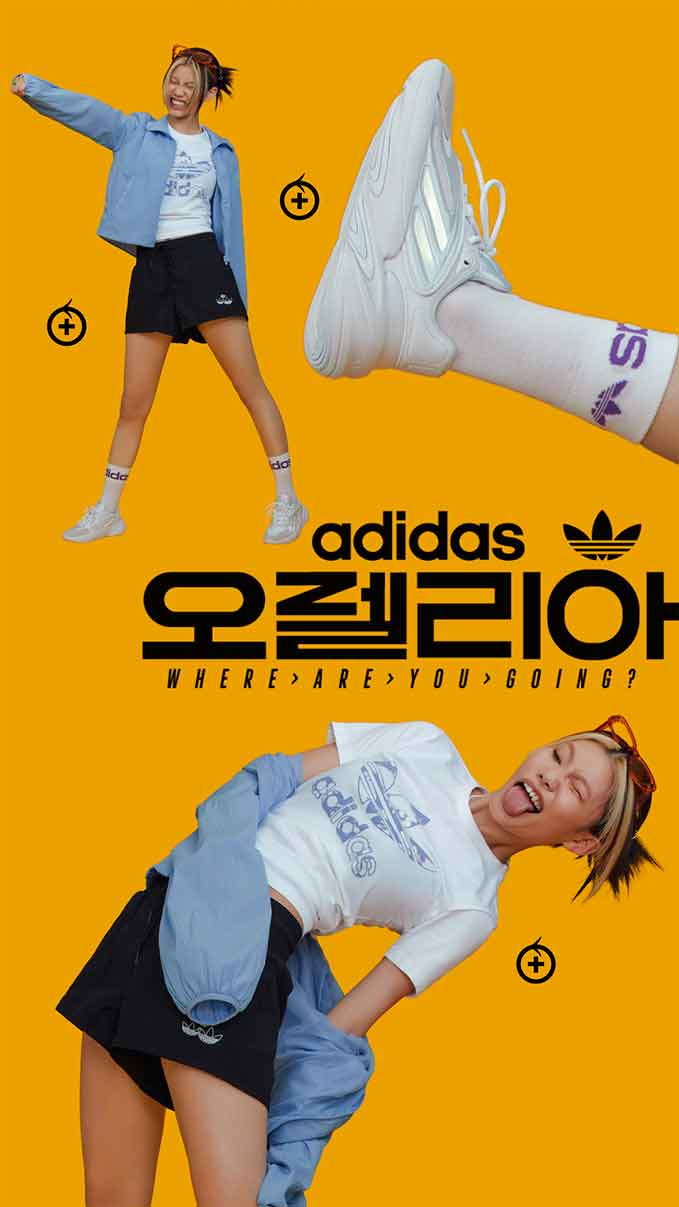
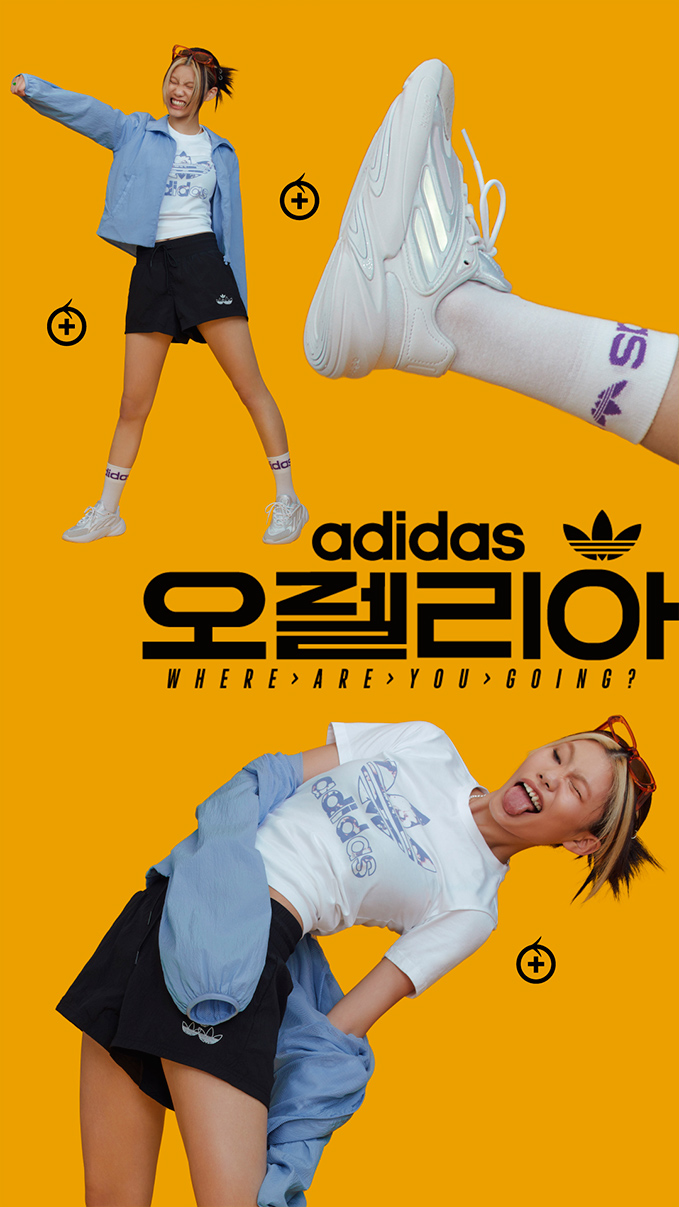
오즈월드 수정

diff --git a/front/html/adidas/2021/event/ozworld/build/index.html b/front/html/adidas/2021/event/ozworld/build/index.html
@@ -31,7 +31,7 @@
 		<header include-html="/html/adidas/inc/header.html"></header>
 		<!-- header HTML -->
 		<div id="container_r" class="campaign-content">
-<style type="text/css">.pseudo-element{content:'';display:block}html,body{height:100%}#wrap{min-width:1190px;overflow:hidden}a{outline:none}button{outline:none}.clearfix{clear:both;display:block;content:""}.inner{max-width:1210px;margin:0 auto;position:relative;box-sizing:border-box}.inner2{max-width:1586px;margin:0 auto;position:relative;box-sizing:border-box}.inner3{max-width:1370px;margin:0 auto;position:relative;box-sizing:border-box}.button_area_v2{display:inline-block}.button_area_v2:hover div a{color:#767677}.button_area_v2:hover div a span{background:#767677}.button_area_v2:hover div a span em{background:#767677}.button_area_v2 div.white .bg{box-shadow:inset 0 0 0 1px #fff;-webkit-box-shadow:inset 0 0 0 1px #fff;transition:all 0.5s;-webkit-transition:all 0.5s;-moz-transition:all 0.5s;-o-transition:all 0.5s;-ms-transition:all 0.5s}.button_area_v2 div.white a{background:#fff}.button_area_v2 div .bg{box-shadow:inset 0 0 0 1px #000;-webkit-box-shadow:inset 0 0 0 1px #000;transition:all 0.5s;-webkit-transition:all 0.5s;-moz-transition:all 0.5s;-o-transition:all 0.5s;-ms-transition:all 0.5s}.button_area_v2 div a{letter-spacing:1px;padding:0 20px;background:#000}#ozworld{min-width:1280px}#ozworld .oz_gif>img{width:100%}#ozworld .main{position:relative}#ozworld .main .main_wrap>img{width:100%}#ozworld .main .main_txt{position:absolute;left:50%;top:30%;transform:translate(-50%, -50%)}#ozworld .main .main_txt p{font:600 42px/70px "NotoSansKR";letter-spacing:8px;color:#fff;text-align:center;padding:60px 0 0 0}#ozworld .main .main_txt .main_btn{text-align:center}#ozworld .all_cont{position:relative}#ozworld .all_cont>img{width:100%}#ozworld .cont1 .cont1_box{position:relative;background:#40335f;padding:115px 0 121px 0}#ozworld .cont1 .cont1_box .cont1_video_list{overflow:hidden}#ozworld .cont1 .cont1_box .cont1_video_list .video_le{position:relative;float:left;width:48.61286254729%;margin-right:1.5762925599%}#ozworld .cont1 .cont1_box .cont1_video_list .video_ra{position:relative;float:left;padding-top:108px;width:47.73013871375%;margin-left:2.08070617907%}#ozworld .cont1 .cont1_box .video_wrap{position:relative}#ozworld .cont1 .cont1_box .video_wrap>img{width:100%}#ozworld .cont1 .cont1_box .video_wrap .video_btn{position:absolute;left:50%;top:50%;transform:translate(-50%, -50%)}#ozworld .cont1 .cont1_box .video_wrap .video_btn button{background:url("/images/adidas/2021/event/ozworld/video_btn.png") no-repeat;background-size:100%;width:227px;height:227px;border:0}#ozworld .cont1 .cont1_box .cont1_btn{text-align:center;padding-top:40px}#ozworld .cont2_tab{position:relative}#ozworld .tab_btn{position:relative}#ozworld .tab_btn>img{width:100%}#ozworld .tab_btn ul{text-align:center}#ozworld .tab_btn ul li{vertical-align:top;text-align:center;position:absolute;left:18.5%;top:36%;background:none;cursor:pointer;padding:185px;box-sizing:border-box;z-index:1}#ozworld .tab_btn ul li a{display:block}#ozworld .tab_btn ul .tab2{left:40.5%;top:36%}#ozworld .tab_btn ul .tab3{left:62.5%;top:36%}#ozworld .tab_con{position:relative}#ozworld .tab_con .tab__content{width:100%;z-index:0;display:none}#ozworld .tab_con .tab__content.current{display:block;animation:fade-in 1s;animation-fill-mode:forwards;transition:0.5s;-webkit-transition:0.5s;-moz-transition:0.5s;-o-transition:0.5s;-ms-transition:0.5s}#ozworld .tab_con .tab__content .scroll.on{opacity:1}#ozworld .tab_con .tab__content .slick-slide>img{width:76%;margin:0 auto}#ozworld .tab_con .tab__content .slick-arrow{font-size:0;border:0}#ozworld .tab_con .tab__content .slick-prev{position:absolute;left:5%;top:43%;background:url("/images/adidas/2021/event/ozworld/prev.png") no-repeat 50%;background-size:auto;width:55px;height:105px;z-index:1;outline:none;cursor:pointer}#ozworld .tab_con .tab__content .slick-next{position:absolute;right:5%;top:43%;background:url("/images/adidas/2021/event/ozworld/next.png") no-repeat 50%;background-size:auto;width:55px;height:105px;z-index:1;outline:none;cursor:pointer}#ozworld .tab_con .tab1_top .tab1_bg{background:#6ad60f;text-align:center;padding:166px 0 142px 0}#ozworld .tab_con .tab1_top .tab1_bg .ozwg_btn{text-align:center;padding:20px 0 0 0}#ozworld .tab_con .ozwg_bg{background:url("/images/adidas/2021/event/ozworld/ozwg_bg.jpg") no-repeat;background-position:center}#ozworld .tab_con .ozwg_bg .title{text-align:center;padding:215px 0 85px 0}#ozworld .tab_con .ozwg_bg .slider01{padding-bottom:60px;text-align:center}#ozworld .tab_con .ozwg_bg .slider02{padding-bottom:100px;text-align:center}#ozworld .tab_con .ozwg_bg2{background:url("/images/adidas/2021/event/ozworld/ozwg_bg2.jpg") no-repeat;background-position:center}#ozworld .tab_con .ozwg_bg3{background:url("/images/adidas/2021/event/ozworld/ozwg_bg3.jpg") no-repeat;background-position:center}#ozworld .tab_con .ozwg_bg4{background:url("/images/adidas/2021/event/ozworld/ozwg_bg4.jpg") no-repeat;background-position:center}#ozworld .cont3_box{background:url("/images/adidas/2021/event/ozworld/cont3_bg.jpg") no-repeat;background-position:center;padding:130px 0 140px 0}#ozworld .cont3_box .cont3_video_list{overflow:hidden}#ozworld .cont3_box .cont3_video_list .video_le{position:relative;float:left;width:49.56204379562%;margin-right:0.87591240876%}#ozworld .cont3_box .cont3_video_list .video_ra{position:relative;float:left;width:49.56204379562%}#ozworld .cont3_box .video_wrap{position:relative}#ozworld .cont3_box .video_wrap>img{width:100%}#ozworld .cont3_box .video_wrap .video_btn{position:absolute;left:50%;top:50%;transform:translate(-50%, -50%)}#ozworld .cont3_box .video_wrap .video_btn button{background:url("/images/adidas/2021/event/ozworld/video_btn.png") no-repeat;background-size:100%;width:227px;height:227px;border:0}
+<style type="text/css">.pseudo-element{content:'';display:block}html,body{height:100%}#wrap{min-width:1190px;overflow:hidden}a{outline:none}button{outline:none}.clearfix{clear:both;display:block;content:""}.inner{max-width:1210px;margin:0 auto;position:relative;box-sizing:border-box}.inner2{max-width:1586px;margin:0 auto;position:relative;box-sizing:border-box}.inner3{max-width:1370px;margin:0 auto;position:relative;box-sizing:border-box}.button_area_v2{display:inline-block}.button_area_v2:hover div a{color:#767677}.button_area_v2:hover div a span{background:#767677}.button_area_v2:hover div a span em{background:#767677}.button_area_v2 div.white .bg{box-shadow:inset 0 0 0 1px #fff;-webkit-box-shadow:inset 0 0 0 1px #fff;transition:all 0.5s;-webkit-transition:all 0.5s;-moz-transition:all 0.5s;-o-transition:all 0.5s;-ms-transition:all 0.5s}.button_area_v2 div.white a{background:#fff}.button_area_v2 div .bg{box-shadow:inset 0 0 0 1px #000;-webkit-box-shadow:inset 0 0 0 1px #000;transition:all 0.5s;-webkit-transition:all 0.5s;-moz-transition:all 0.5s;-o-transition:all 0.5s;-ms-transition:all 0.5s}.button_area_v2 div a{letter-spacing:1px;padding:0 20px;background:#000}#ozworld{min-width:1280px}#ozworld .oz_gif>img{width:100%}#ozworld .main{position:relative}#ozworld .main .main_wrap>img{width:100%}#ozworld .main .main_txt{position:absolute;left:50%;top:31%;transform:translate(-50%, -50%)}#ozworld .main .main_txt p{font:600 42px/70px "NotoSansKR";letter-spacing:8px;color:#fff;text-align:center;padding:60px 0 30px 0}#ozworld .main .main_txt .main_btn{text-align:center}#ozworld .all_cont{position:relative}#ozworld .all_cont>img{width:100%}#ozworld .cont1 .cont1_box{position:relative;background:#40335f;padding:115px 0 121px 0}#ozworld .cont1 .cont1_box .cont1_video_list{overflow:hidden}#ozworld .cont1 .cont1_box .cont1_video_list .video_le{position:relative;float:left;width:48.61286254729%;margin-right:1.5762925599%}#ozworld .cont1 .cont1_box .cont1_video_list .video_ra{position:relative;float:left;padding-top:108px;width:47.73013871375%;margin-left:2.08070617907%}#ozworld .cont1 .cont1_box .video_wrap{position:relative}#ozworld .cont1 .cont1_box .video_wrap>img{width:100%}#ozworld .cont1 .cont1_box .video_wrap .video_btn{position:absolute;left:50%;top:50%;transform:translate(-50%, -50%)}#ozworld .cont1 .cont1_box .video_wrap .video_btn button{background:url("/images/adidas/2021/event/ozworld/video_btn.png") no-repeat;background-size:100%;width:227px;height:227px;border:0}#ozworld .cont1 .cont1_box .cont1_btn{text-align:center;padding-top:40px}#ozworld .cont2_tab{position:relative}#ozworld .tab_btn{position:relative}#ozworld .tab_btn>img{width:100%}#ozworld .tab_btn ul{text-align:center}#ozworld .tab_btn ul li{vertical-align:top;text-align:center;position:absolute;left:18.5%;top:36%;background:none;cursor:pointer;padding:185px;box-sizing:border-box;z-index:1}#ozworld .tab_btn ul li a{display:block}#ozworld .tab_btn ul .tab2{left:40.5%;top:36%}#ozworld .tab_btn ul .tab3{left:62.5%;top:36%}#ozworld .tab_con{position:relative}#ozworld .tab_con .tab__content{width:100%;z-index:0;display:none}#ozworld .tab_con .tab__content.current{display:block;animation:fade-in 1s;animation-fill-mode:forwards;transition:0.5s;-webkit-transition:0.5s;-moz-transition:0.5s;-o-transition:0.5s;-ms-transition:0.5s}#ozworld .tab_con .tab__content .scroll.on{opacity:1}#ozworld .tab_con .tab__content .slick-slide>img{width:76%;margin:0 auto}#ozworld .tab_con .tab__content .slick-arrow{font-size:0;border:0}#ozworld .tab_con .tab__content .slick-prev{position:absolute;left:5%;top:43%;background:url("/images/adidas/2021/event/ozworld/prev.png") no-repeat 50%;background-size:auto;width:55px;height:105px;z-index:1;outline:none;cursor:pointer}#ozworld .tab_con .tab__content .slick-next{position:absolute;right:5%;top:43%;background:url("/images/adidas/2021/event/ozworld/next.png") no-repeat 50%;background-size:auto;width:55px;height:105px;z-index:1;outline:none;cursor:pointer}#ozworld .tab_con .tab1_top .tab1_bg{background:#6ad60f;text-align:center;padding:166px 0 142px 0}#ozworld .tab_con .tab1_top .tab1_bg .ozwg_btn{text-align:center;padding:20px 0 0 0}#ozworld .tab_con .ozwg_bg{background:url("/images/adidas/2021/event/ozworld/ozwg_bg.jpg") no-repeat;background-position:center}#ozworld .tab_con .ozwg_bg .title{text-align:center;padding:215px 0 85px 0}#ozworld .tab_con .ozwg_bg .slider01{padding-bottom:60px;text-align:center}#ozworld .tab_con .ozwg_bg .slider02{padding-bottom:100px;text-align:center}#ozworld .tab_con .ozwg_bg2{background:url("/images/adidas/2021/event/ozworld/ozwg_bg2.jpg") no-repeat;background-position:center}#ozworld .tab_con .ozwg_bg3{background:url("/images/adidas/2021/event/ozworld/ozwg_bg3.jpg") no-repeat;background-position:center}#ozworld .tab_con .ozwg_bg4{background:url("/images/adidas/2021/event/ozworld/ozwg_bg4.jpg") no-repeat;background-position:center}#ozworld .cont3_box{background:url("/images/adidas/2021/event/ozworld/cont3_bg.jpg") no-repeat;background-position:center;padding:130px 0 140px 0}#ozworld .cont3_box .cont3_video_list{overflow:hidden}#ozworld .cont3_box .cont3_video_list .video_le{position:relative;float:left;width:49.56204379562%;margin-right:0.87591240876%}#ozworld .cont3_box .cont3_video_list .video_ra{position:relative;float:left;width:49.56204379562%}#ozworld .cont3_box .video_wrap{position:relative}#ozworld .cont3_box .video_wrap>img{width:100%}#ozworld .cont3_box .video_wrap .video_btn{position:absolute;left:50%;top:50%;transform:translate(-50%, -50%)}#ozworld .cont3_box .video_wrap .video_btn button{background:url("/images/adidas/2021/event/ozworld/video_btn.png") no-repeat;background-size:100%;width:227px;height:227px;border:0}
 </style>
 			<link rel="stylesheet" type="text/css" href="/css/slick.css" />		
 			<div id="ozworld">
@@ -104,9 +104,7 @@
 									</a>									
 								</li>
 								<li id="tab3" class="tab-link tab3" data-tab="tab-3" onclick="alert('COMING SOON!'); return false;">
-									<a href="javascript:void(0)">
 
-									</a>
 								</li>
 							</ul>
 						</div>
@@ -306,10 +304,8 @@
 									<a href="javascript:void(0)" class="tab2">
 									</a>									
 								</li>
-								<li id="tab3" class="tab-link tab3 " data-tab="tab-3" onclick="alert('COMING SOON!'); return false;">
-									<a href="javascript:void(0)">
+								<li id="tab3" class="tab-link tab3 " data-tab="tab-3" onclick="alert('COMING SOON!');">
 
-									</a>
 								</li>
 							</ul>
 						</div>
@@ -377,11 +373,15 @@
 				});
 
 				$('.tab_btn li:nth-child(3)').click(function(){
-					var index = $(this).index();
 					$("#tab_ch").attr("src", "/images/adidas/2021/event/ozworld/cont2_tab3.jpg");
 					$("#tab_ch2").attr("src", "/images/adidas/2021/event/ozworld/cont2_tab6.jpg");
 					$(".cont3_box").fadeOut(100);
 				});
+
+				$(".tab_btn li:nth-child(3)").unbind("click");			
+
+
+
 
 				// $('#tab_ch').on({
 				// 	'click': function() {

diff --git a/front/html/adidas/html/pn/ozworld.html b/front/html/adidas/html/pn/ozworld.html
@@ -1,5 +1,5 @@
 <div id="container_r" class="campaign-content">
-	<style type="text/css">.pseudo-element{content:'';display:block}html,body{height:100%}#wrap{min-width:1190px;overflow:hidden}a{outline:none}button{outline:none}.clearfix{clear:both;display:block;content:""}.inner{max-width:1210px;margin:0 auto;position:relative;box-sizing:border-box}.inner2{max-width:1586px;margin:0 auto;position:relative;box-sizing:border-box}.inner3{max-width:1370px;margin:0 auto;position:relative;box-sizing:border-box}.button_area_v2{display:inline-block}.button_area_v2:hover div a{color:#767677}.button_area_v2:hover div a span{background:#767677}.button_area_v2:hover div a span em{background:#767677}.button_area_v2 div.white .bg{box-shadow:inset 0 0 0 1px #fff;-webkit-box-shadow:inset 0 0 0 1px #fff;transition:all 0.5s;-webkit-transition:all 0.5s;-moz-transition:all 0.5s;-o-transition:all 0.5s;-ms-transition:all 0.5s}.button_area_v2 div.white a{background:#fff}.button_area_v2 div .bg{box-shadow:inset 0 0 0 1px #000;-webkit-box-shadow:inset 0 0 0 1px #000;transition:all 0.5s;-webkit-transition:all 0.5s;-moz-transition:all 0.5s;-o-transition:all 0.5s;-ms-transition:all 0.5s}.button_area_v2 div a{letter-spacing:1px;padding:0 20px;background:#000}#ozworld{min-width:1280px}#ozworld .oz_gif>img{width:100%}#ozworld .main{position:relative}#ozworld .main .main_wrap>img{width:100%}#ozworld .main .main_txt{position:absolute;left:50%;top:30%;transform:translate(-50%, -50%)}#ozworld .main .main_txt p{font:600 42px/70px "NotoSansKR";letter-spacing:8px;color:#fff;text-align:center;padding:60px 0 0 0}#ozworld .main .main_txt .main_btn{text-align:center}#ozworld .all_cont{position:relative}#ozworld .all_cont>img{width:100%}#ozworld .cont1 .cont1_box{position:relative;background:#40335f;padding:115px 0 121px 0}#ozworld .cont1 .cont1_box .cont1_video_list{overflow:hidden}#ozworld .cont1 .cont1_box .cont1_video_list .video_le{position:relative;float:left;width:48.61286254729%;margin-right:1.5762925599%}#ozworld .cont1 .cont1_box .cont1_video_list .video_ra{position:relative;float:left;padding-top:108px;width:47.73013871375%;margin-left:2.08070617907%}#ozworld .cont1 .cont1_box .video_wrap{position:relative}#ozworld .cont1 .cont1_box .video_wrap>img{width:100%}#ozworld .cont1 .cont1_box .video_wrap .video_btn{position:absolute;left:50%;top:50%;transform:translate(-50%, -50%)}#ozworld .cont1 .cont1_box .video_wrap .video_btn button{background:url("/images/adidas/2021/event/ozworld/video_btn.png") no-repeat;background-size:100%;width:227px;height:227px;border:0}#ozworld .cont1 .cont1_box .cont1_btn{text-align:center;padding-top:40px}#ozworld .cont2_tab{position:relative}#ozworld .tab_btn{position:relative}#ozworld .tab_btn>img{width:100%}#ozworld .tab_btn ul{text-align:center}#ozworld .tab_btn ul li{vertical-align:top;text-align:center;position:absolute;left:18.5%;top:36%;background:none;cursor:pointer;padding:185px;box-sizing:border-box;z-index:1}#ozworld .tab_btn ul li a{display:block}#ozworld .tab_btn ul .tab2{left:40.5%;top:36%}#ozworld .tab_btn ul .tab3{left:62.5%;top:36%}#ozworld .tab_con{position:relative}#ozworld .tab_con .tab__content{width:100%;z-index:0;display:none}#ozworld .tab_con .tab__content.current{display:block;animation:fade-in 1s;animation-fill-mode:forwards;transition:0.5s;-webkit-transition:0.5s;-moz-transition:0.5s;-o-transition:0.5s;-ms-transition:0.5s}#ozworld .tab_con .tab__content .scroll.on{opacity:1}#ozworld .tab_con .tab__content .slick-slide>img{width:76%;margin:0 auto}#ozworld .tab_con .tab__content .slick-arrow{font-size:0;border:0}#ozworld .tab_con .tab__content .slick-prev{position:absolute;left:5%;top:43%;background:url("/images/adidas/2021/event/ozworld/prev.png") no-repeat 50%;background-size:auto;width:55px;height:105px;z-index:1;outline:none;cursor:pointer}#ozworld .tab_con .tab__content .slick-next{position:absolute;right:5%;top:43%;background:url("/images/adidas/2021/event/ozworld/next.png") no-repeat 50%;background-size:auto;width:55px;height:105px;z-index:1;outline:none;cursor:pointer}#ozworld .tab_con .tab1_top .tab1_bg{background:#6ad60f;text-align:center;padding:166px 0 142px 0}#ozworld .tab_con .tab1_top .tab1_bg .ozwg_btn{text-align:center;padding:20px 0 0 0}#ozworld .tab_con .ozwg_bg{background:url("/images/adidas/2021/event/ozworld/ozwg_bg.jpg") no-repeat;background-position:center}#ozworld .tab_con .ozwg_bg .title{text-align:center;padding:215px 0 85px 0}#ozworld .tab_con .ozwg_bg .slider01{padding-bottom:60px;text-align:center}#ozworld .tab_con .ozwg_bg .slider02{padding-bottom:100px;text-align:center}#ozworld .tab_con .ozwg_bg2{background:url("/images/adidas/2021/event/ozworld/ozwg_bg2.jpg") no-repeat;background-position:center}#ozworld .tab_con .ozwg_bg3{background:url("/images/adidas/2021/event/ozworld/ozwg_bg3.jpg") no-repeat;background-position:center}#ozworld .tab_con .ozwg_bg4{background:url("/images/adidas/2021/event/ozworld/ozwg_bg4.jpg") no-repeat;background-position:center}#ozworld .cont3_box{background:url("/images/adidas/2021/event/ozworld/cont3_bg.jpg") no-repeat;background-position:center;padding:130px 0 140px 0}#ozworld .cont3_box .cont3_video_list{overflow:hidden}#ozworld .cont3_box .cont3_video_list .video_le{position:relative;float:left;width:49.56204379562%;margin-right:0.87591240876%}#ozworld .cont3_box .cont3_video_list .video_ra{position:relative;float:left;width:49.56204379562%}#ozworld .cont3_box .video_wrap{position:relative}#ozworld .cont3_box .video_wrap>img{width:100%}#ozworld .cont3_box .video_wrap .video_btn{position:absolute;left:50%;top:50%;transform:translate(-50%, -50%)}#ozworld .cont3_box .video_wrap .video_btn button{background:url("/images/adidas/2021/event/ozworld/video_btn.png") no-repeat;background-size:100%;width:227px;height:227px;border:0}
+	<style type="text/css">.pseudo-element{content:'';display:block}html,body{height:100%}#wrap{min-width:1190px;overflow:hidden}a{outline:none}button{outline:none}.clearfix{clear:both;display:block;content:""}.inner{max-width:1210px;margin:0 auto;position:relative;box-sizing:border-box}.inner2{max-width:1586px;margin:0 auto;position:relative;box-sizing:border-box}.inner3{max-width:1370px;margin:0 auto;position:relative;box-sizing:border-box}.button_area_v2{display:inline-block}.button_area_v2:hover div a{color:#767677}.button_area_v2:hover div a span{background:#767677}.button_area_v2:hover div a span em{background:#767677}.button_area_v2 div.white .bg{box-shadow:inset 0 0 0 1px #fff;-webkit-box-shadow:inset 0 0 0 1px #fff;transition:all 0.5s;-webkit-transition:all 0.5s;-moz-transition:all 0.5s;-o-transition:all 0.5s;-ms-transition:all 0.5s}.button_area_v2 div.white a{background:#fff}.button_area_v2 div .bg{box-shadow:inset 0 0 0 1px #000;-webkit-box-shadow:inset 0 0 0 1px #000;transition:all 0.5s;-webkit-transition:all 0.5s;-moz-transition:all 0.5s;-o-transition:all 0.5s;-ms-transition:all 0.5s}.button_area_v2 div a{letter-spacing:1px;padding:0 20px;background:#000}#ozworld{min-width:1280px}#ozworld .oz_gif>img{width:100%}#ozworld .main{position:relative}#ozworld .main .main_wrap>img{width:100%}#ozworld .main .main_txt{position:absolute;left:50%;top:31%;transform:translate(-50%, -50%)}#ozworld .main .main_txt p{font:600 42px/70px "NotoSansKR";letter-spacing:8px;color:#fff;text-align:center;padding:60px 0 30px 0}#ozworld .main .main_txt .main_btn{text-align:center}#ozworld .all_cont{position:relative}#ozworld .all_cont>img{width:100%}#ozworld .cont1 .cont1_box{position:relative;background:#40335f;padding:115px 0 121px 0}#ozworld .cont1 .cont1_box .cont1_video_list{overflow:hidden}#ozworld .cont1 .cont1_box .cont1_video_list .video_le{position:relative;float:left;width:48.61286254729%;margin-right:1.5762925599%}#ozworld .cont1 .cont1_box .cont1_video_list .video_ra{position:relative;float:left;padding-top:108px;width:47.73013871375%;margin-left:2.08070617907%}#ozworld .cont1 .cont1_box .video_wrap{position:relative}#ozworld .cont1 .cont1_box .video_wrap>img{width:100%}#ozworld .cont1 .cont1_box .video_wrap .video_btn{position:absolute;left:50%;top:50%;transform:translate(-50%, -50%)}#ozworld .cont1 .cont1_box .video_wrap .video_btn button{background:url("/images/adidas/2021/event/ozworld/video_btn.png") no-repeat;background-size:100%;width:227px;height:227px;border:0}#ozworld .cont1 .cont1_box .cont1_btn{text-align:center;padding-top:40px}#ozworld .cont2_tab{position:relative}#ozworld .tab_btn{position:relative}#ozworld .tab_btn>img{width:100%}#ozworld .tab_btn ul{text-align:center}#ozworld .tab_btn ul li{vertical-align:top;text-align:center;position:absolute;left:18.5%;top:36%;background:none;cursor:pointer;padding:185px;box-sizing:border-box;z-index:1}#ozworld .tab_btn ul li a{display:block}#ozworld .tab_btn ul .tab2{left:40.5%;top:36%}#ozworld .tab_btn ul .tab3{left:62.5%;top:36%}#ozworld .tab_con{position:relative}#ozworld .tab_con .tab__content{width:100%;z-index:0;display:none}#ozworld .tab_con .tab__content.current{display:block;animation:fade-in 1s;animation-fill-mode:forwards;transition:0.5s;-webkit-transition:0.5s;-moz-transition:0.5s;-o-transition:0.5s;-ms-transition:0.5s}#ozworld .tab_con .tab__content .scroll.on{opacity:1}#ozworld .tab_con .tab__content .slick-slide>img{width:76%;margin:0 auto}#ozworld .tab_con .tab__content .slick-arrow{font-size:0;border:0}#ozworld .tab_con .tab__content .slick-prev{position:absolute;left:5%;top:43%;background:url("/images/adidas/2021/event/ozworld/prev.png") no-repeat 50%;background-size:auto;width:55px;height:105px;z-index:1;outline:none;cursor:pointer}#ozworld .tab_con .tab__content .slick-next{position:absolute;right:5%;top:43%;background:url("/images/adidas/2021/event/ozworld/next.png") no-repeat 50%;background-size:auto;width:55px;height:105px;z-index:1;outline:none;cursor:pointer}#ozworld .tab_con .tab1_top .tab1_bg{background:#6ad60f;text-align:center;padding:166px 0 142px 0}#ozworld .tab_con .tab1_top .tab1_bg .ozwg_btn{text-align:center;padding:20px 0 0 0}#ozworld .tab_con .ozwg_bg{background:url("/images/adidas/2021/event/ozworld/ozwg_bg.jpg") no-repeat;background-position:center}#ozworld .tab_con .ozwg_bg .title{text-align:center;padding:215px 0 85px 0}#ozworld .tab_con .ozwg_bg .slider01{padding-bottom:60px;text-align:center}#ozworld .tab_con .ozwg_bg .slider02{padding-bottom:100px;text-align:center}#ozworld .tab_con .ozwg_bg2{background:url("/images/adidas/2021/event/ozworld/ozwg_bg2.jpg") no-repeat;background-position:center}#ozworld .tab_con .ozwg_bg3{background:url("/images/adidas/2021/event/ozworld/ozwg_bg3.jpg") no-repeat;background-position:center}#ozworld .tab_con .ozwg_bg4{background:url("/images/adidas/2021/event/ozworld/ozwg_bg4.jpg") no-repeat;background-position:center}#ozworld .cont3_box{background:url("/images/adidas/2021/event/ozworld/cont3_bg.jpg") no-repeat;background-position:center;padding:130px 0 140px 0}#ozworld .cont3_box .cont3_video_list{overflow:hidden}#ozworld .cont3_box .cont3_video_list .video_le{position:relative;float:left;width:49.56204379562%;margin-right:0.87591240876%}#ozworld .cont3_box .cont3_video_list .video_ra{position:relative;float:left;width:49.56204379562%}#ozworld .cont3_box .video_wrap{position:relative}#ozworld .cont3_box .video_wrap>img{width:100%}#ozworld .cont3_box .video_wrap .video_btn{position:absolute;left:50%;top:50%;transform:translate(-50%, -50%)}#ozworld .cont3_box .video_wrap .video_btn button{background:url("/images/adidas/2021/event/ozworld/video_btn.png") no-repeat;background-size:100%;width:227px;height:227px;border:0}
 	</style>
 				<link rel="stylesheet" type="text/css" href="/css/slick.css" />		
 				<div id="ozworld">
@@ -72,9 +72,7 @@
 										</a>									
 									</li>
 									<li id="tab3" class="tab-link tab3" data-tab="tab-3" onclick="alert('COMING SOON!'); return false;">
-										<a href="javascript:void(0)">
 	
-										</a>
 									</li>
 								</ul>
 							</div>
@@ -274,10 +272,8 @@
 										<a href="javascript:void(0)" class="tab2">
 										</a>									
 									</li>
-									<li id="tab3" class="tab-link tab3 " data-tab="tab-3" onclick="alert('COMING SOON!'); return false;">
-										<a href="javascript:void(0)">
+									<li id="tab3" class="tab-link tab3 " data-tab="tab-3" onclick="alert('COMING SOON!');">
 	
-										</a>
 									</li>
 								</ul>
 							</div>
@@ -345,11 +341,15 @@
 					});
 	
 					$('.tab_btn li:nth-child(3)').click(function(){
-						var index = $(this).index();
 						$("#tab_ch").attr("src", "/images/adidas/2021/event/ozworld/cont2_tab3.jpg");
 						$("#tab_ch2").attr("src", "/images/adidas/2021/event/ozworld/cont2_tab6.jpg");
 						$(".cont3_box").fadeOut(100);
 					});
+	
+					$(".tab_btn li:nth-child(3)").unbind("click");			
+	
+	
+	
 	
 					// $('#tab_ch').on({
 					// 	'click': function() {

diff --git a/front/html/adidas/2021/event/ozworld/index.html b/front/html/adidas/2021/event/ozworld/index.html
@@ -102,9 +102,7 @@
 									</a>									
 								</li>
 								<li id="tab3" class="tab-link tab3" data-tab="tab-3" onclick="alert('COMING SOON!'); return false;">
-									<a href="javascript:void(0)">
 
-									</a>
 								</li>
 							</ul>
 						</div>
@@ -304,10 +302,8 @@
 									<a href="javascript:void(0)" class="tab2">
 									</a>									
 								</li>
-								<li id="tab3" class="tab-link tab3 " data-tab="tab-3" onclick="alert('COMING SOON!'); return false;">
-									<a href="javascript:void(0)">
+								<li id="tab3" class="tab-link tab3 " data-tab="tab-3" onclick="alert('COMING SOON!');">
 
-									</a>
 								</li>
 							</ul>
 						</div>
@@ -375,11 +371,15 @@
 				});
 
 				$('.tab_btn li:nth-child(3)').click(function(){
-					var index = $(this).index();
 					$("#tab_ch").attr("src", "/images/adidas/2021/event/ozworld/cont2_tab3.jpg");
 					$("#tab_ch2").attr("src", "/images/adidas/2021/event/ozworld/cont2_tab6.jpg");
 					$(".cont3_box").fadeOut(100);
 				});
+
+				$(".tab_btn li:nth-child(3)").unbind("click");			
+
+
+
 
 				// $('#tab_ch').on({
 				// 	'click': function() {

diff --git a/front/html/adidas/2021/event/ozworld/index.scss b/front/html/adidas/2021/event/ozworld/index.scss
@@ -97,7 +97,7 @@ button {
     .main_txt {
       position:absolute;
       left:50%;
-      top:30%;
+      top:31%;
       transform:translate(-50%,-50%);
       
       p{
@@ -105,7 +105,7 @@ button {
         letter-spacing:8px;
         color:#fff;        
         text-align:center;
-        padding:60px 0 0 0;
+        padding:60px 0 30px 0;
       }
       .main_btn{
         text-align:center;
